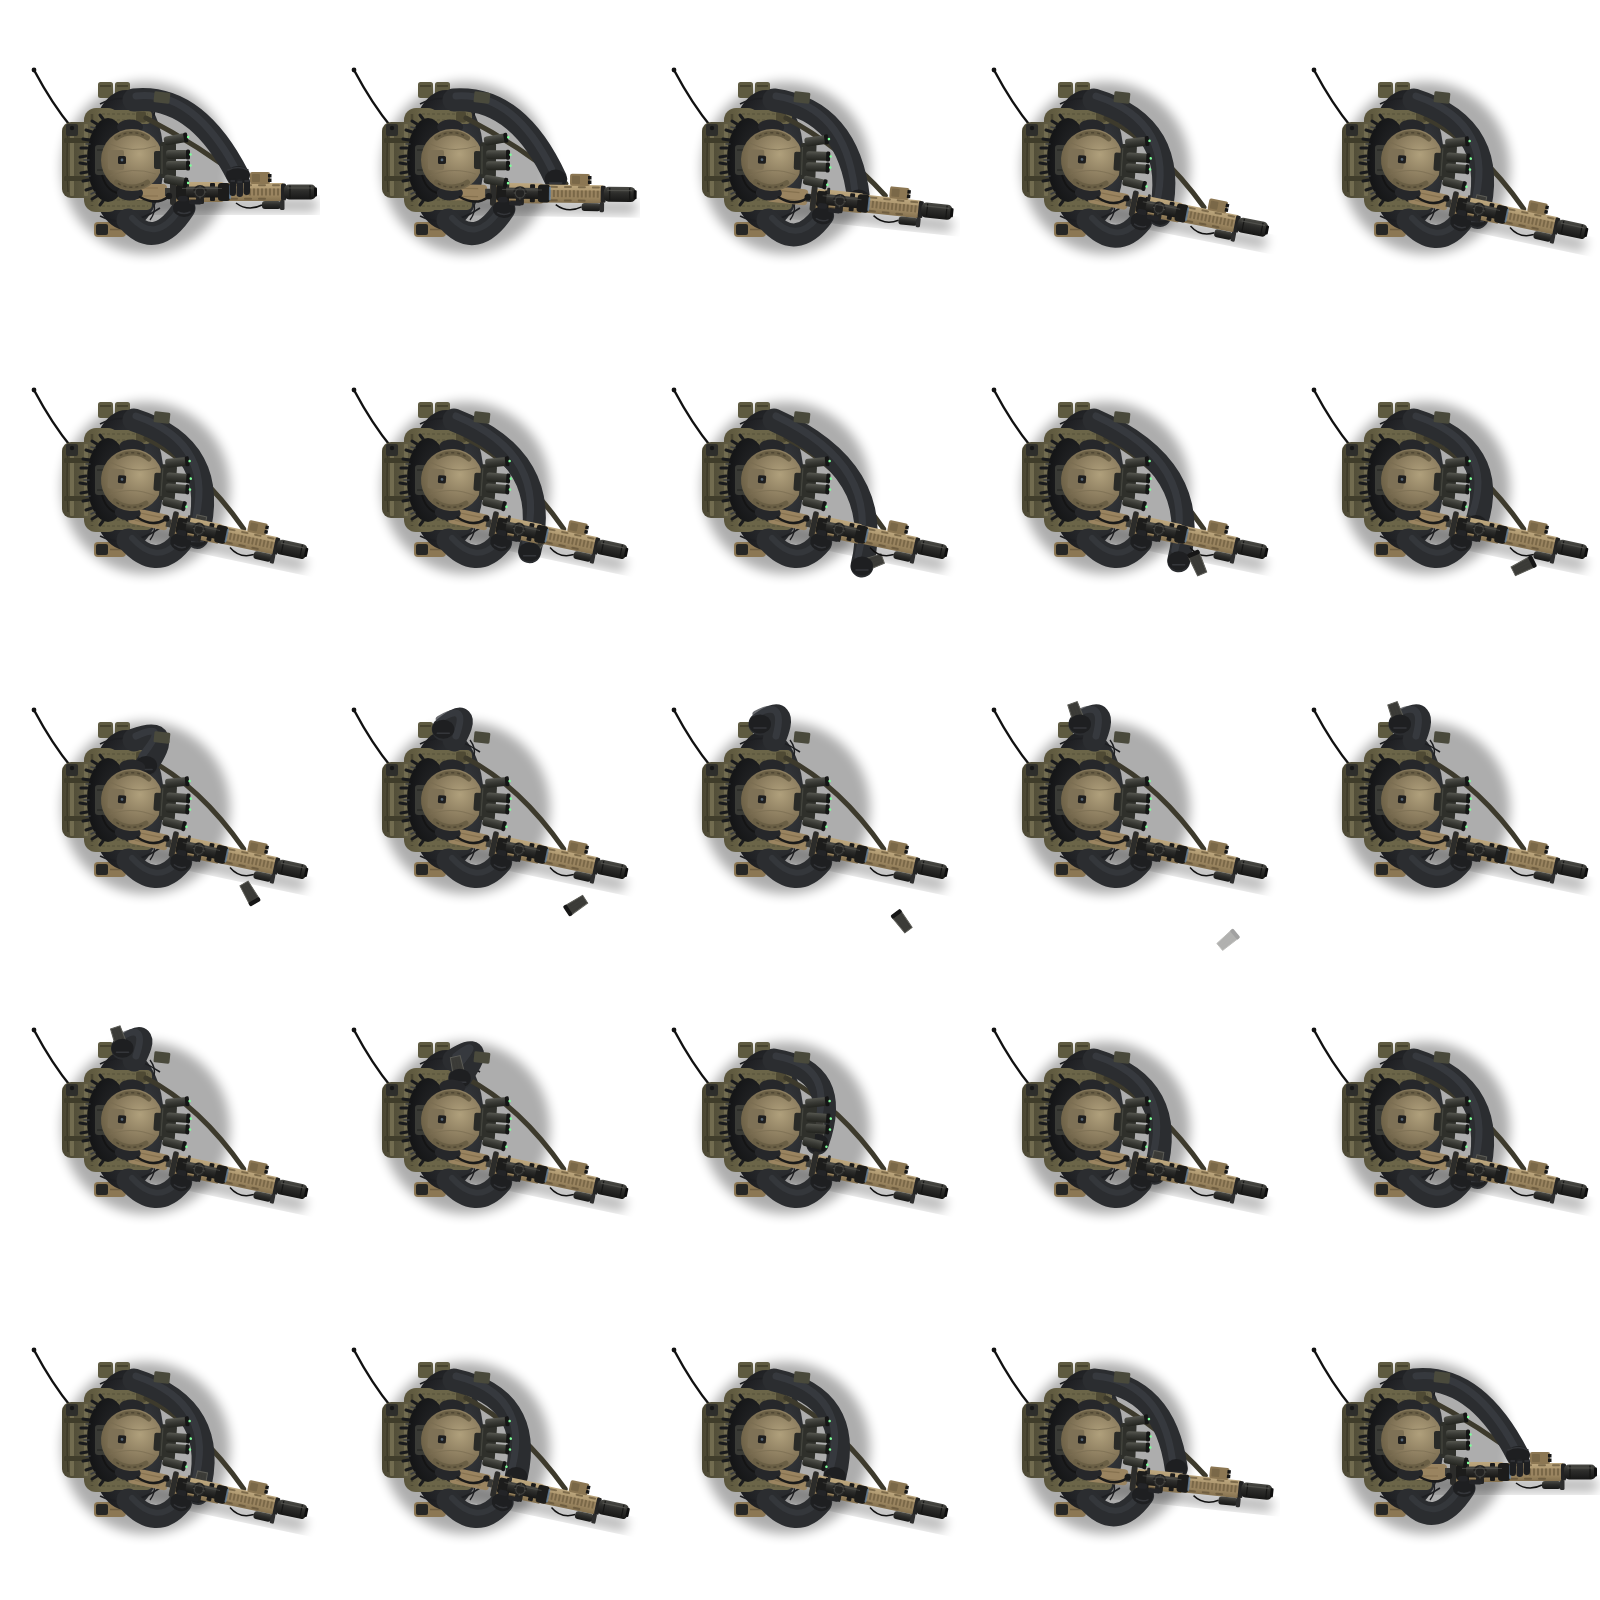
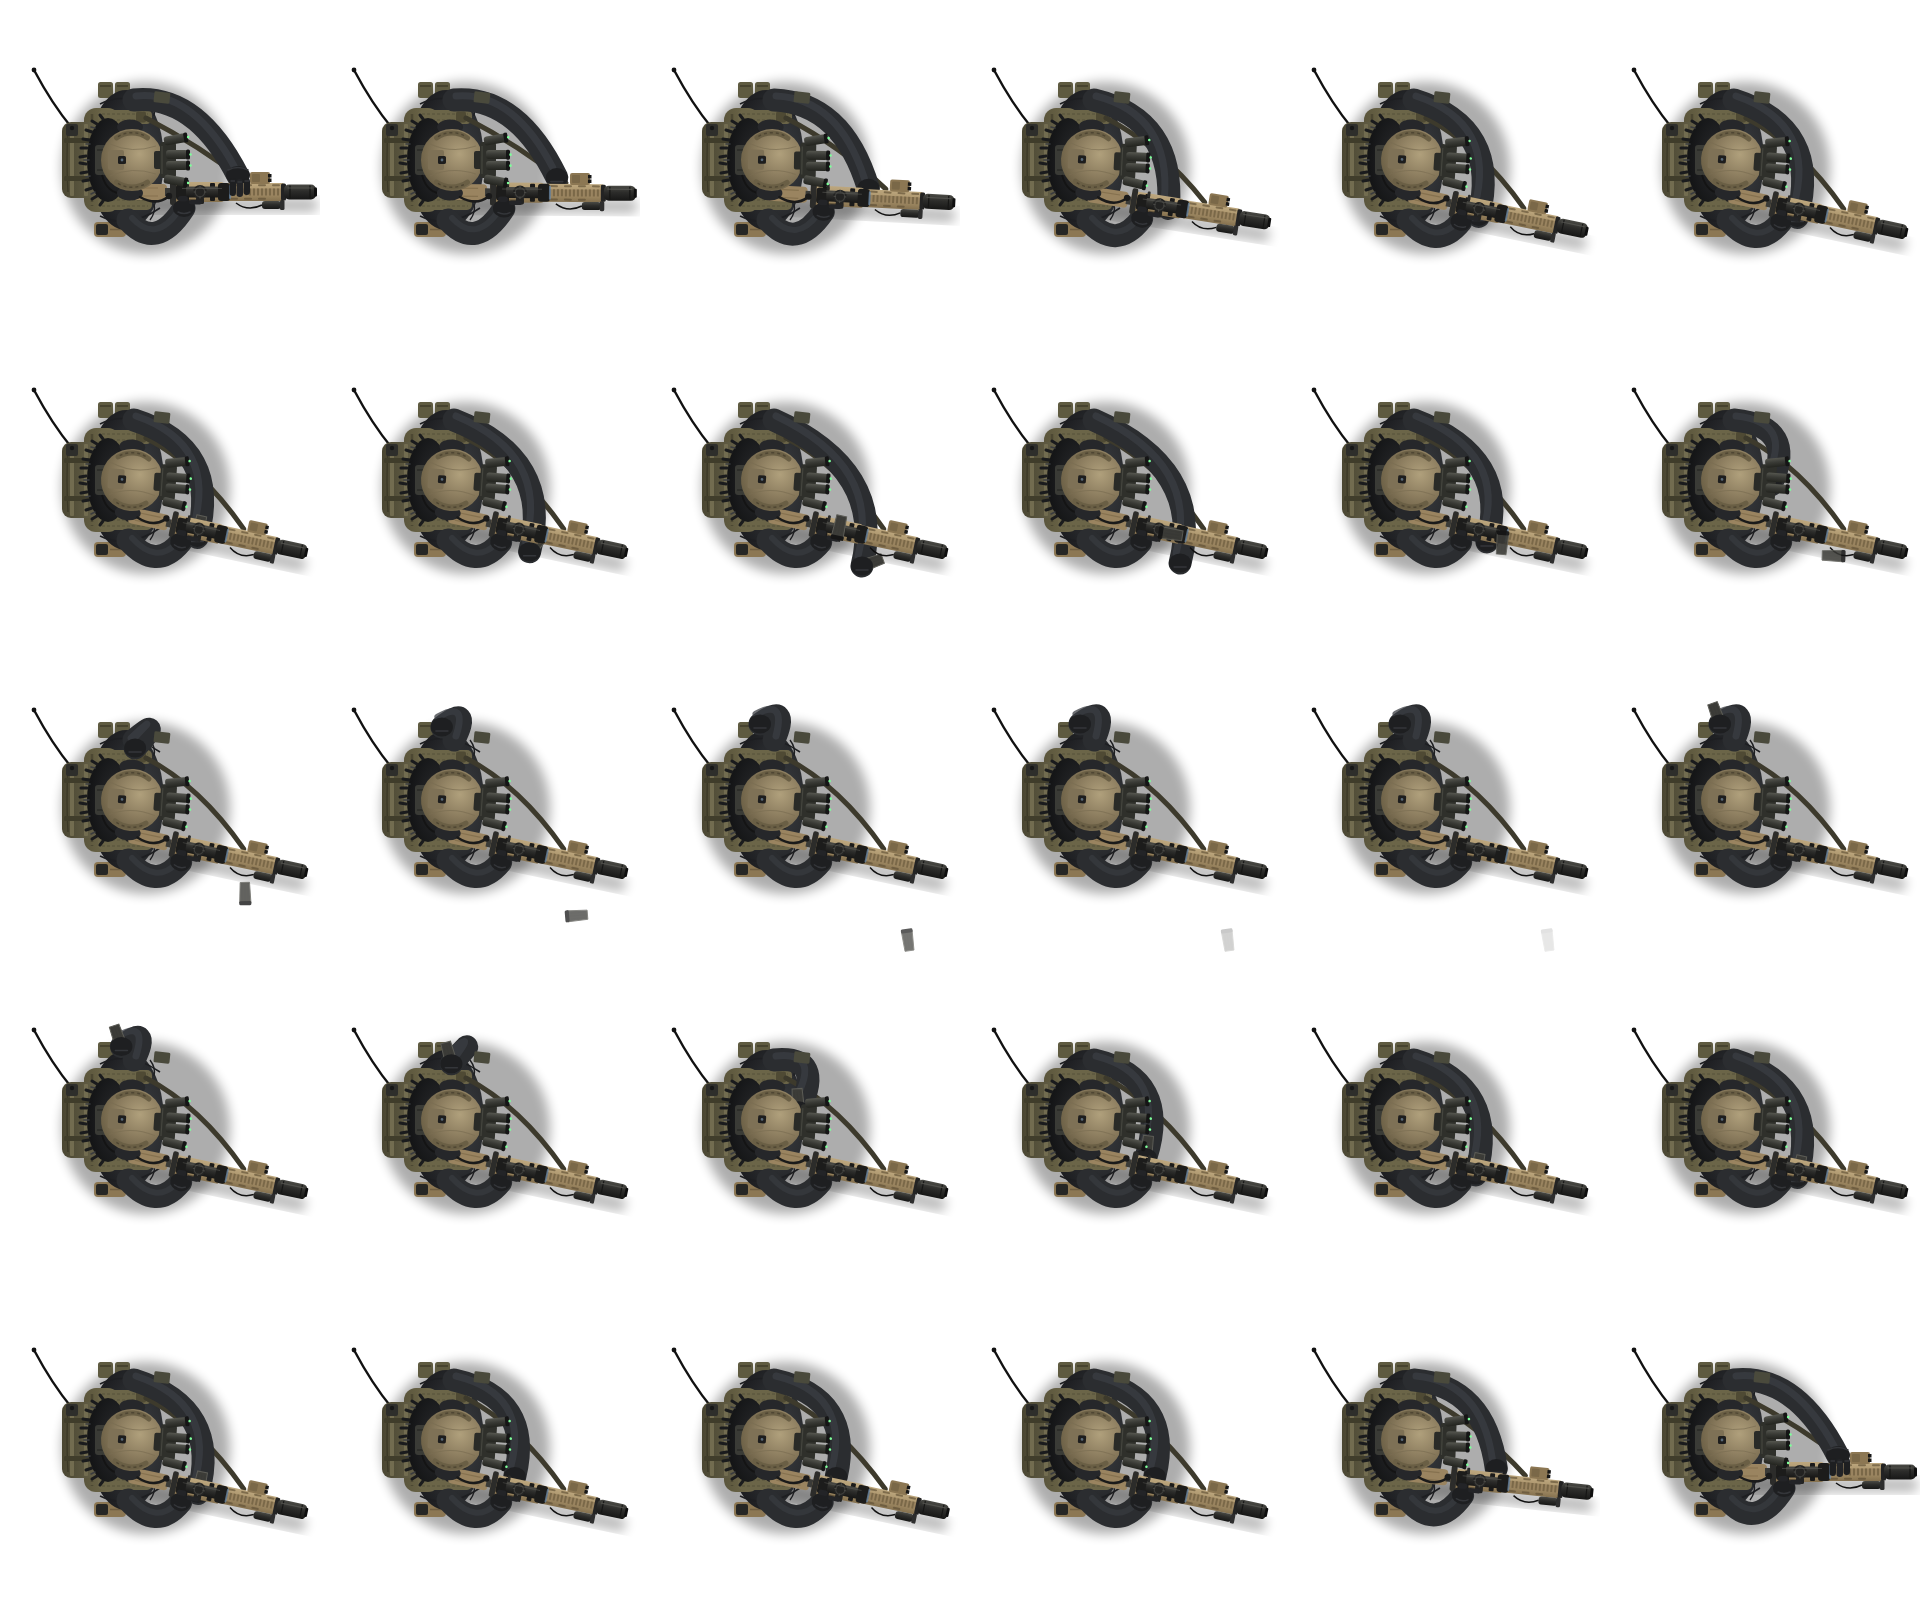
Added UI Class + Updated Operator Assets.

diff --git a/src/States/GameState.cpp b/src/States/GameState.cpp
@@ -25,11 +25,11 @@ namespace
 GameState::GameState(StateManager *manager)
     : IState(manager)
     , character(CharacterAnimations(
-        LoadAnimation(AssetConstants::ANIM_OPERATOR_NVG_EQUIPPED_IDLE_LOW, 24, GameConstants::FRAME_TIME_60, 5, 5),
-        LoadAnimation(AssetConstants::ANIM_OPERATOR_NVG_EQUIPPED_IDLE, 24, GameConstants::FRAME_TIME_60, 5, 5),
-        LoadAnimation(AssetConstants::ANIM_OPERATOR_NVG_EQUIPPED_FIRE_WITH_FLASH, 5, GameConstants::FRAME_TIME_120, 5, 1),
-        LoadAnimation(AssetConstants::ANIM_OPERATOR_NVG_EQUIPPED_WALK_AIM, 24, GameConstants::FRAME_TIME_60, 5, 5),
-        LoadAnimation(AssetConstants::ANIM_OPERATOR_NVG_EQUIPPED_RELOAD, 24, GameConstants::FRAME_TIME_60, 5, 5)))
+        LoadAnimation(AssetConstants::ANIM_OPERATOR_NVG_EQUIPPED_IDLE_LOW, 30, GameConstants::FRAME_TIME_60, 6, 5),
+        LoadAnimation(AssetConstants::ANIM_OPERATOR_NVG_EQUIPPED_IDLE, 30, GameConstants::FRAME_TIME_60, 6, 5),
+        LoadAnimation(AssetConstants::ANIM_OPERATOR_NVG_EQUIPPED_FIRE_WITH_FLASH, 30, GameConstants::FRAME_TIME_240, 6, 5),
+        LoadAnimation(AssetConstants::ANIM_OPERATOR_NVG_EQUIPPED_WALK_AIM, 30, GameConstants::FRAME_TIME_60, 6, 5),
+        LoadAnimation(AssetConstants::ANIM_OPERATOR_NVG_EQUIPPED_RELOAD, 30, GameConstants::FRAME_TIME_60, 6, 5)))
 {}
 
 void GameState::Draw()
@@ -38,7 +38,7 @@ void GameState::Draw()
     BeginMode2D(camera);
     character.Draw();
     DrawAimingLine();
-    DrawText(std::to_string(character.GetCurrentAmmo()).c_str(), 20, 20, 60, RED);
+    ui.DrawAmmo();
     EndMode2D();
 }
 
@@ -52,24 +52,28 @@ void GameState::Update()
     InputManager::GetInstance().Poll();
     const PlayerInput& input = InputManager::GetInstance().Get();
 
-    if (input.fire)
+    camera.zoom = GameConstants::CAMERA_ZOOM_DEFAULT;
+
+    if (input.aim)
     {
-        ShakeCamera();
+        camera.zoom = GameConstants::CAMERA_ZOOM_AIM;
     }
 
     const Vector2 worldMousePos = GetScreenToWorld2D(GetMousePosition(), camera);
 
     character.Update(input, worldMousePos);
+
+    camera.target = {character.GetRect().x, character.GetRect().y};
 }
 
 void GameState::OnEnter()
 {
+    character.SetPosition(400, 1600);
+
     camera.target = {character.GetRect().x, character.GetRect().y};
-    camera.offset = {};
+    camera.offset = {GameConstants::SCREEN_WIDTH / 2,GameConstants::SCREEN_HEIGHT / 2};
     camera.rotation = 0.0f;
     camera.zoom = GameConstants::CAMERA_ZOOM_DEFAULT;
-
-    character.SetPosition(400, 400);
 }
 
 void GameState::OnExit()
@@ -90,5 +94,5 @@ void GameState::DrawAimingLine() const
 
     const Vector2 worldMousePos = GetScreenToWorld2D(GetMousePosition(), camera);
 
-    DrawLine(character.GetRect().x, character.GetRect().y, worldMousePos.x, worldMousePos.y, YELLOW);
+    DrawLine(character.GetRect().x + + GameConstants::CHARACTER_WIDTH / 2, character.GetRect().y + + GameConstants::CHARACTER_HEIGHT / 2, worldMousePos.x, worldMousePos.y, YELLOW);
 }

diff --git a/src/Constants/GameConstants.h b/src/Constants/GameConstants.h
@@ -12,16 +12,19 @@ struct GameConstants
 
     static constexpr const char* GAME_NAME = "Fatal Funnel";
 
+    static constexpr int CHARACTER_WIDTH = 160;
+    static constexpr int CHARACTER_HEIGHT = 160;
+
     static constexpr float FRAME_TIME_60 = 0.0167;
     static constexpr float FRAME_TIME_120 = 0.00835;
+    static constexpr float FRAME_TIME_240 = 0.004175;
 
-    static constexpr int DEFAULT_MAGAZINE_SIZE = 30;
+    static constexpr int DEFAULT_MAGAZINE_SIZE = 20;
 
     static constexpr float PLAYER_WALK_SPEED = 4.0f;
     static constexpr float PLAYER_SPRINT_SPEED = 6.5f;
 
-    static constexpr float RELOAD_TIME_SECONDS = 0.4f;
-    static constexpr float SHOOT_TIME_SECONDS = 4 * FRAME_TIME_60;
+    static constexpr float SHOOT_TIME_SECONDS = FRAME_TIME_240 * 30;
 
     static constexpr float CAMERA_ZOOM_DEFAULT = 0.7f;
     static constexpr float CAMERA_ZOOM_AIM = 0.5f;

diff --git a/src/States/GameState.h b/src/States/GameState.h
@@ -1,5 +1,5 @@
 //
-// Created by johnc on 26/09/2026.
+// Created by sw1ssyy on 26/09/2026.
 //
 
 #ifndef TOPDOWNSHOOTER_GAMESTATE
@@ -7,7 +7,7 @@
 
 #include "IState.h"
 #include "../Characters/Character.h"
-
+#include "../UI/GameUI.h"
 class GameState : public IState
 {
 public:
@@ -22,6 +22,7 @@ public:
     void DrawAimingLine() const;
 
 private:
+    GameUI ui = {camera, character};
     Character character;
     Camera2D camera = {};
 };

diff --git a/src/UI/GameUI.cpp b/src/UI/GameUI.cpp
@@ -1,0 +1,19 @@
+//
+// Created by sw1ssyy on 03/10/2026.
+//
+
+#include "GameUI.h"
+
+#include <filesystem>
+#include <string>
+
+GameUI::GameUI(Camera2D &camera2D, Character& character) : _camera(&camera2D), _character(&character)
+{
+}
+
+void GameUI::DrawAmmo()
+{
+    Vector2 position = GetScreenToWorld2D({20,20}, *_camera);
+
+    DrawText(std::to_string(_character->GetCurrentAmmo()).c_str(),position.x, position.y , 60, RED);
+}

diff --git a/src/UI/GameUI.h b/src/UI/GameUI.h
@@ -1,0 +1,25 @@
+//
+// Created by sw1ssyy on 03/10/2026.
+//
+
+#ifndef TOPDOWNSHOOTER_GAMEUI
+#define TOPDOWNSHOOTER_GAMEUI
+#include "raylib.h"
+#include "../Characters/Character.h"
+
+
+class GameUI
+{
+
+public:
+    GameUI(Camera2D& camera2D, Character& character);
+
+    void DrawAmmo();
+
+private:
+    Character* _character;
+    Camera2D* _camera;
+};
+
+
+#endif //TOPDOWNSHOOTER_GAMEUI
